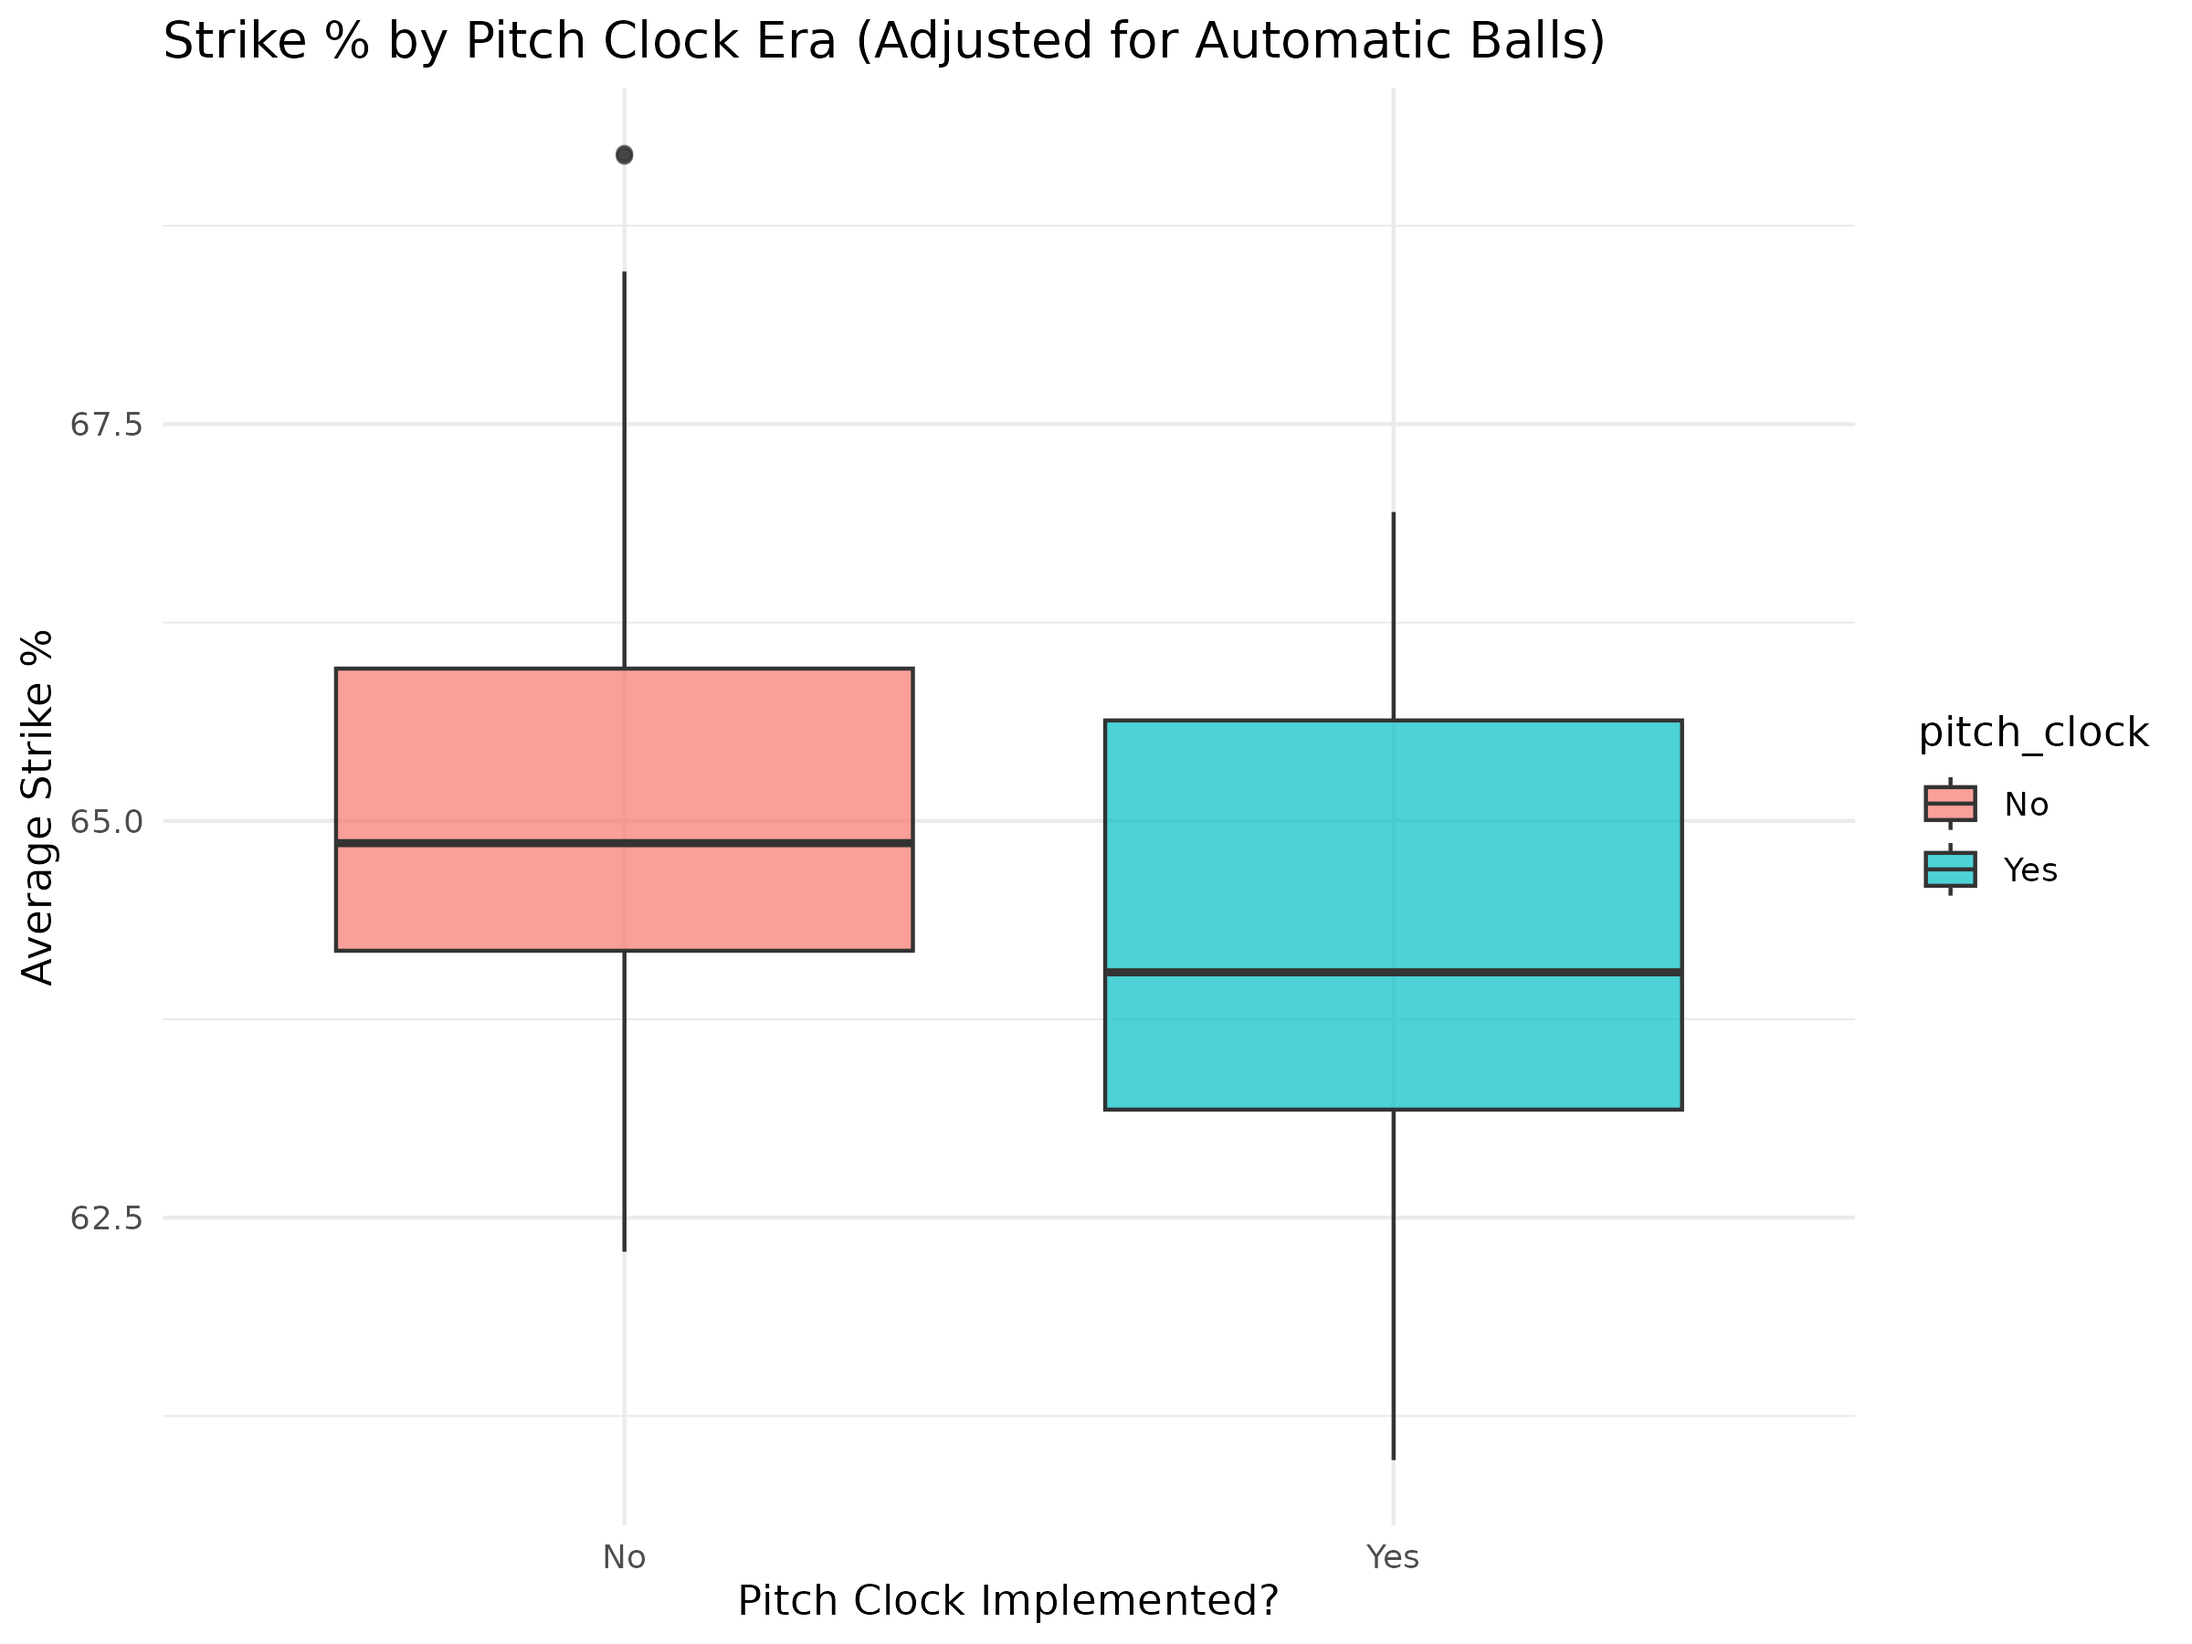
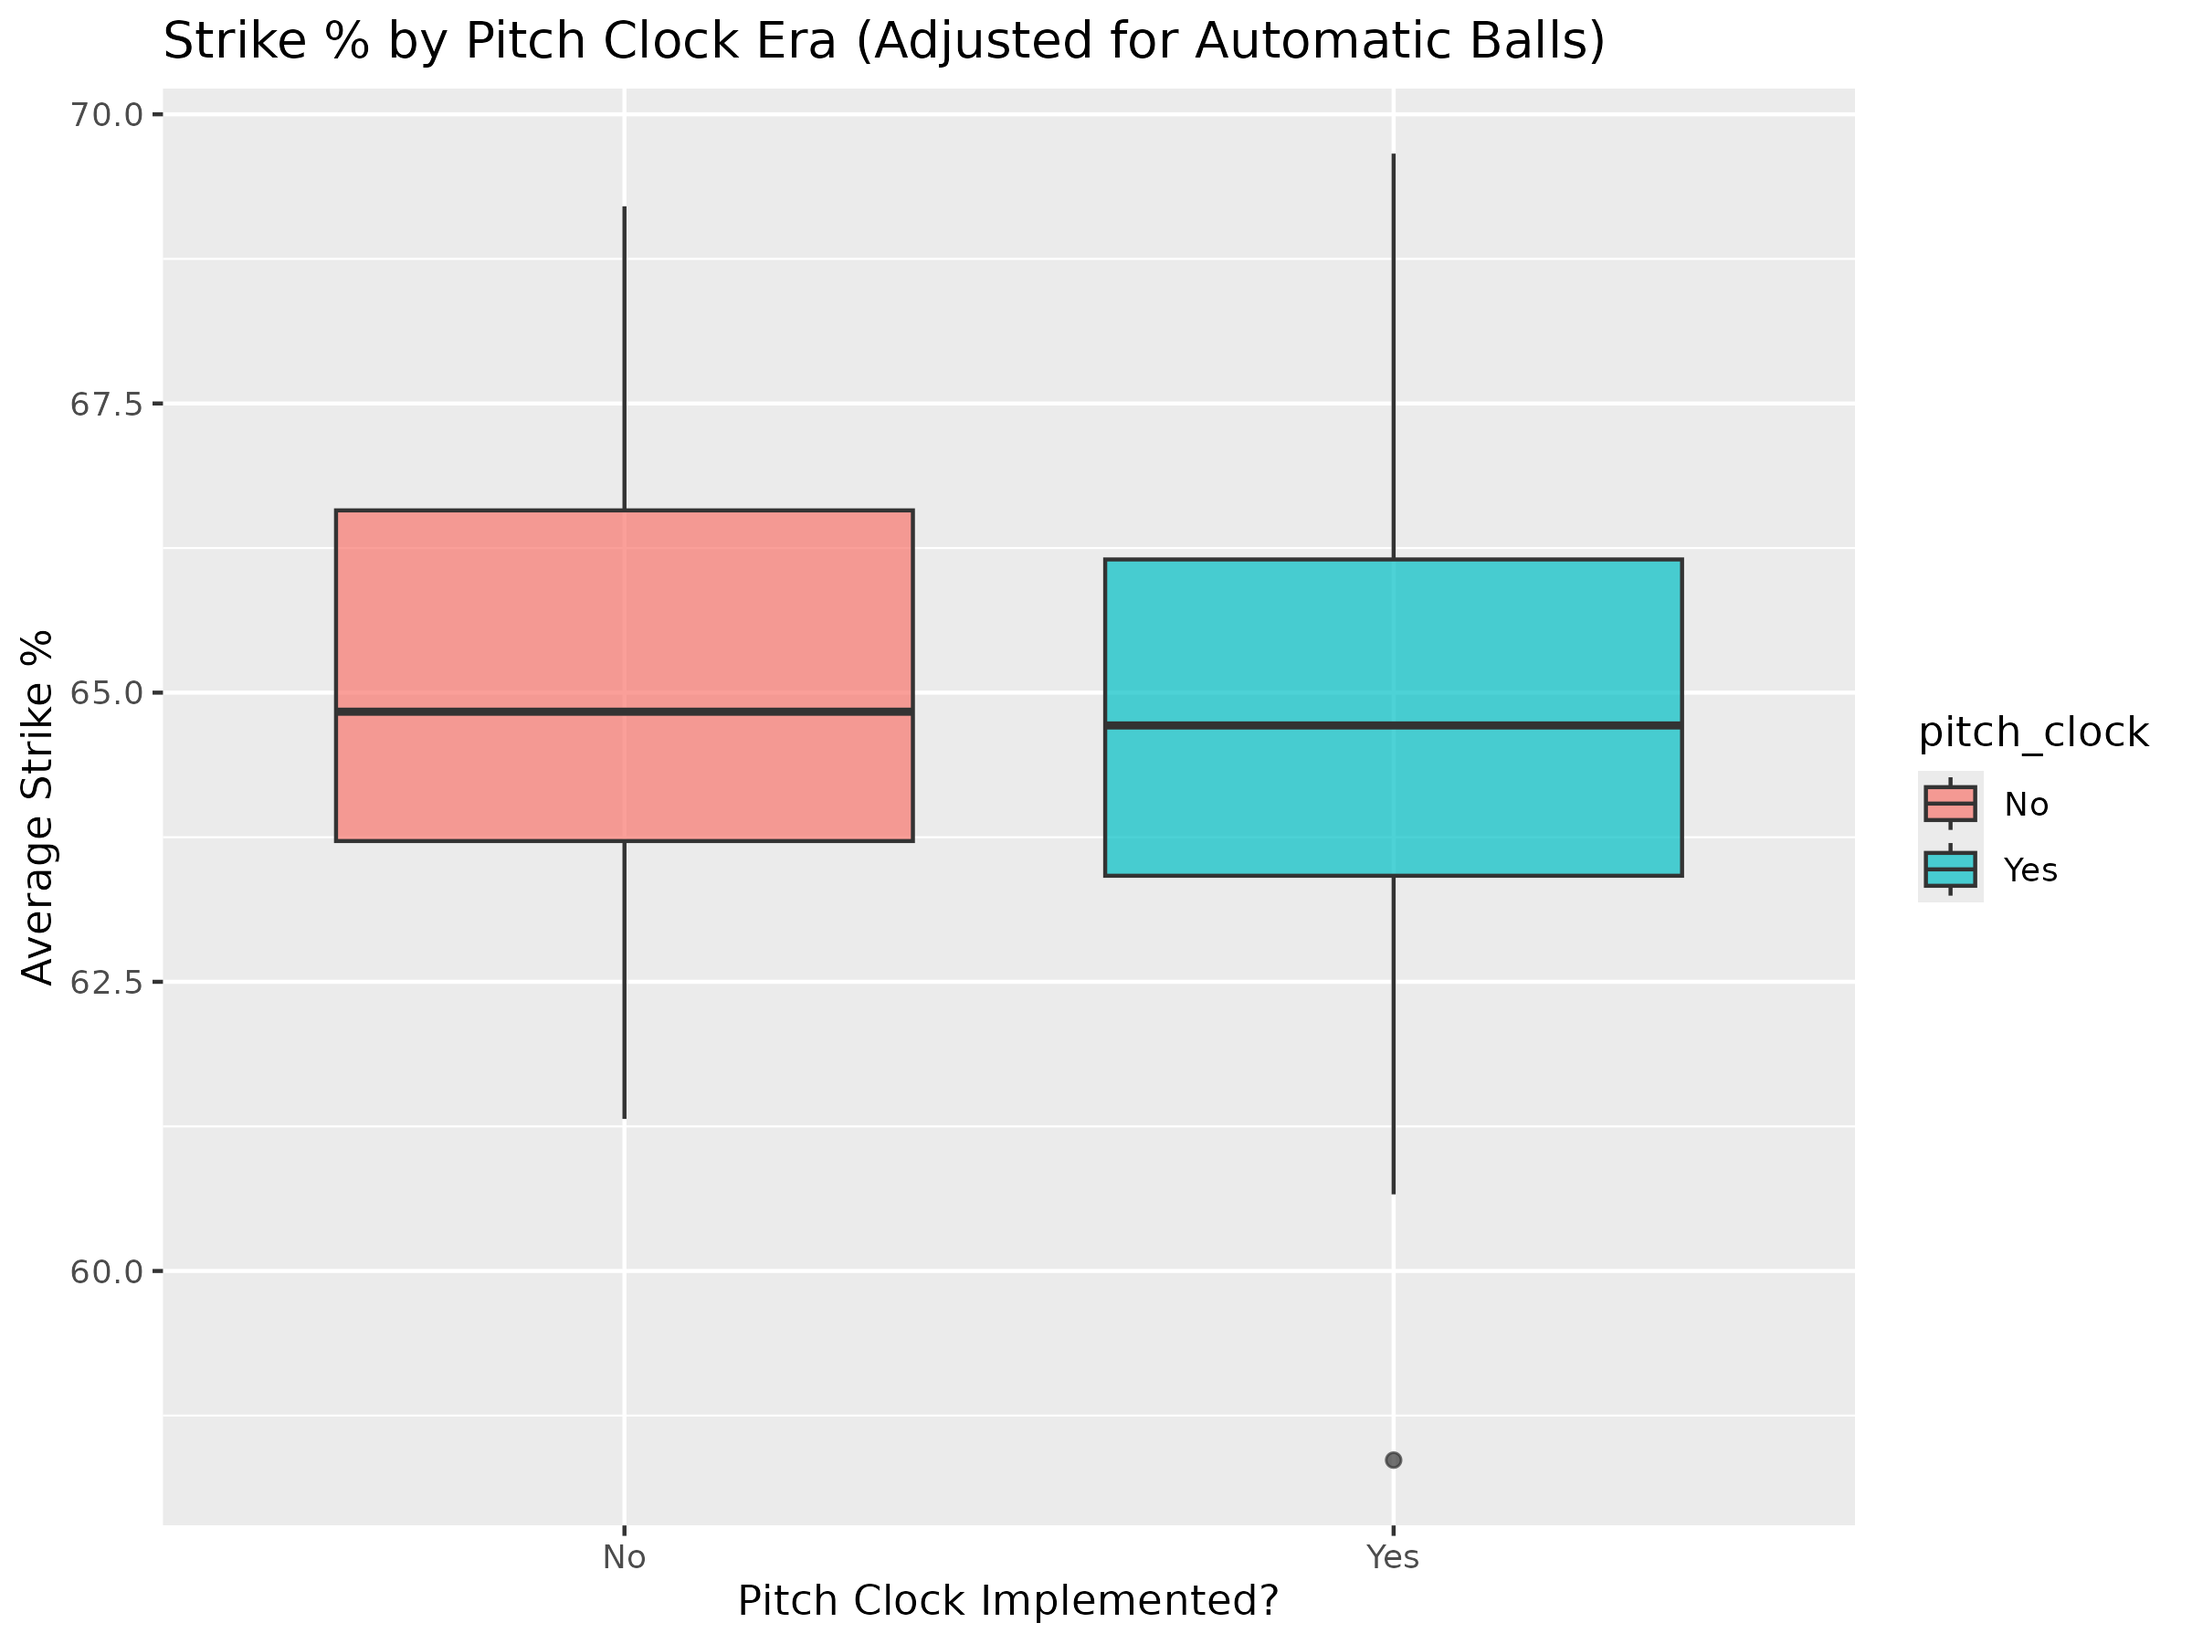
Plot 2 insert

diff --git a/memo/memo.md b/memo/memo.md
@@ -23,12 +23,6 @@ baseball <- read.csv("../data/pitching_data_2021-2024.csv")
 baseball <- baseball %>%
   mutate(pitch_clock = ifelse(year >= 2023, "Yes", "No"))
 
-# Step 1: Keep pitchers with all 4 years of data
-baseball <- baseball %>%
-  group_by(player_id) %>%
-  filter(n_distinct(year) == 4) %>%
-  ungroup()
-
 # Step 2: Calculate adjusted pitches and strike rate row by row
 baseball_1plot <- baseball %>%
   mutate(
@@ -67,8 +61,7 @@ plot1_boxplot <- ggplot(baseball_1plot, aes(x = pitch_clock, y = avg_strike_perc
     title = "Strike % by Pitch Clock Era (Adjusted for Automatic Balls)",
     x = "Pitch Clock Implemented?",
     y = "Average Strike %"
-  ) +
-  theme_minimal()
+  ) 
 
 ggsave("strike_percent_by_pitch_clock.png", plot = plot1_boxplot, width = 8, height = 6)
 ```
